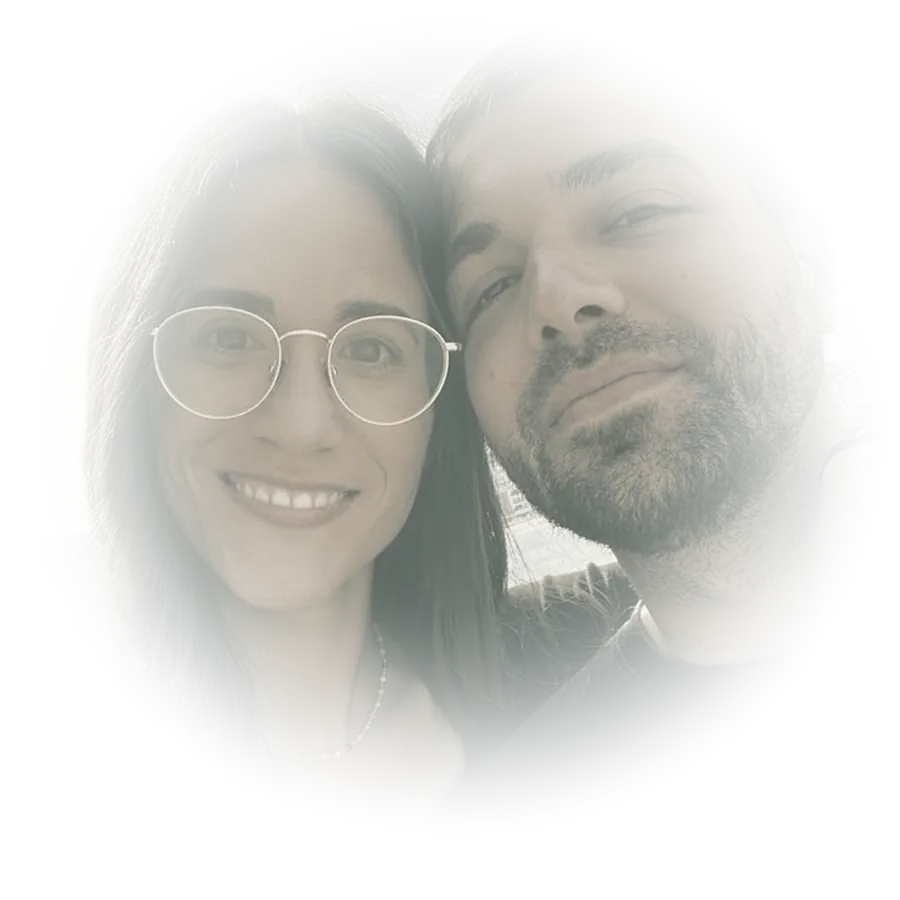
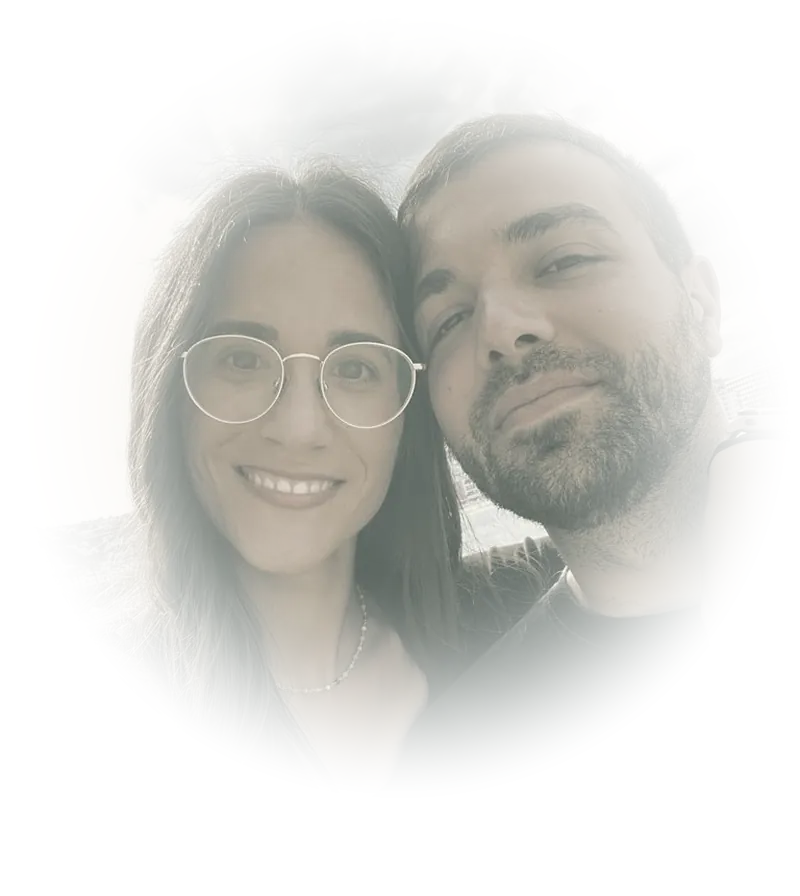
Foto del pie con menos zoom
Claude-Session: https://claude.ai/code/session_012GjK7EvFSFTawz8eSA7w2y

Changed region(s): [[0.0938, 0.125, 0.8125, 0.8125], [0.625, 0.125, 0.6562, 0.1562]]

diff --git a/public/index.html b/public/index.html
@@ -86,7 +86,7 @@
   </main>
 
   <footer class="pie">
-    <img class="pie__foto" src="/img/nosotros.webp" alt="{{A}} y {{B}}" loading="lazy" width="900" height="900">
+    <img class="pie__foto" src="/img/nosotros.webp" alt="{{A}} y {{B}}" loading="lazy" width="800" height="896">
     <img class="pie__flores" src="/img/flores-abajo.png" alt="" aria-hidden="true">
     <p class="pie__nombres">{{A}} y {{B}}</p>
     <p class="pie__fecha">{{DATE_SHORT}}</p>
